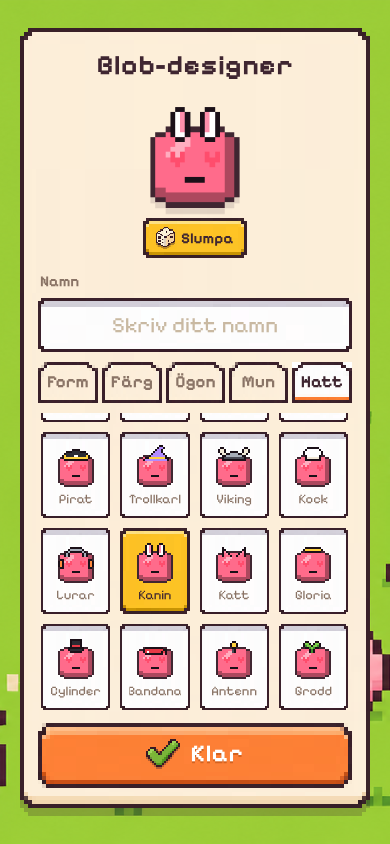
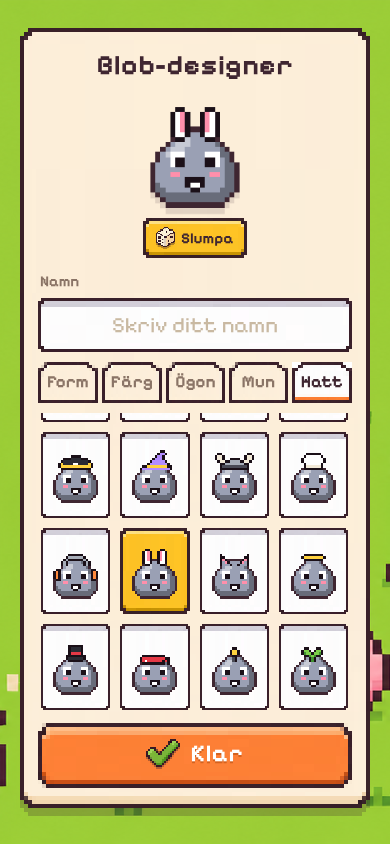
fix(blobz): v018d designer options are pictures only
Claude-Session: https://claude.ai/code/session_019PjhQycgBwz4yCtCSZuQS4

diff --git a/blobz/src/main.ts b/blobz/src/main.ts
@@ -69,7 +69,8 @@ function renderPicker() {
     $('opts').replaceChildren(...PART_OPTS[key].map((label, i) => {
       const b = document.createElement('button');
       b.className = 'opt' + (profile.look[key] === i ? ' on' : '');
-      b.append(blobEl({ ...profile.look, [key]: i }), document.createTextNode(label));
+      b.append(blobEl({ ...profile.look, [key]: i }));
+      b.setAttribute('aria-label', label); b.title = label;
       b.onclick = () => choose({ [key]: i });
       return b;
     }));

diff --git a/blobz/src/style.css b/blobz/src/style.css
@@ -305,3 +305,8 @@ button.link .icon { height: 18px; margin-right: 6px; vertical-align: -3px; }
   html, body { background: #6cbf45; color: #3f2631; }
   input { background: #fff; color: #3f2631; }
 }
+
+/* option tiles: pictures only (names live in aria-label) */
+.opt { padding: 4px 0; justify-content: center; }
+.opt .blob { width: 45px; height: 60px; }
+@media (orientation: landscape) and (max-height: 520px) { .opt .blob { width: 33px; height: 44px; } }
